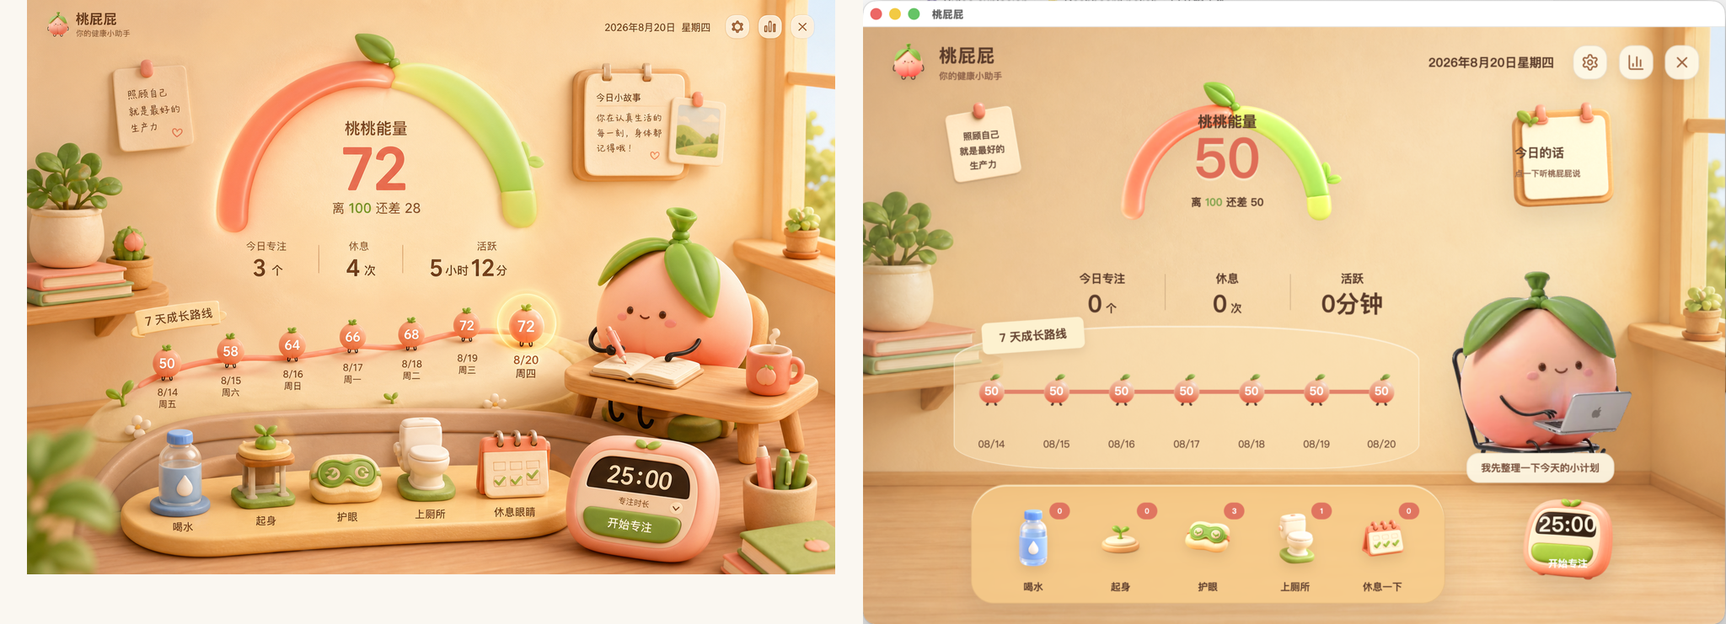
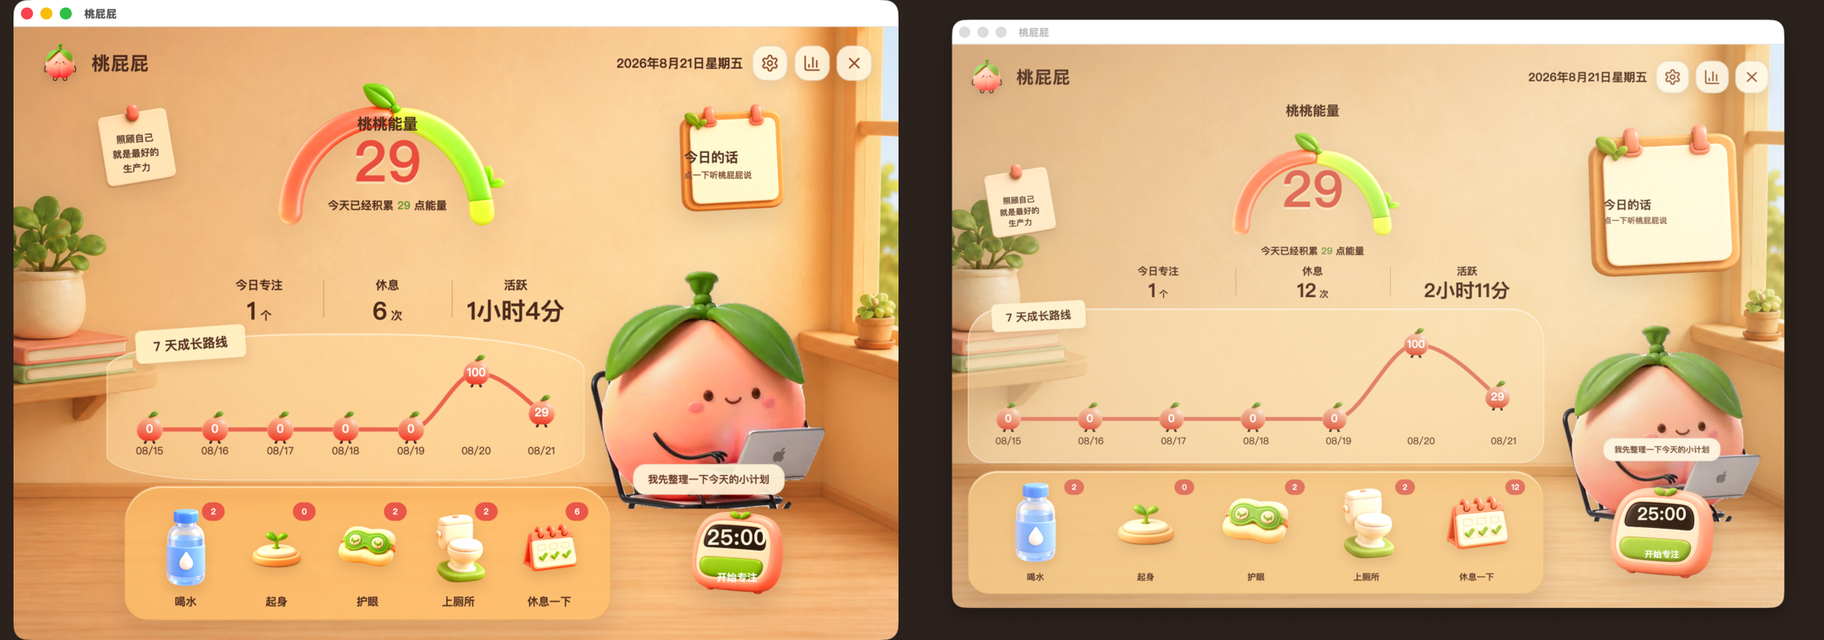
fix: make dashboard responsive at every window size

diff --git a/src/renderer/src/styles.css b/src/renderer/src/styles.css
@@ -37,26 +37,26 @@ button { cursor: pointer; }
 
 /* 桃桃小屋 dashboard */
 .cottage-loading { height: 100vh; display: grid; place-items: center; background: #ffe3bc; color: #74432b; }
-.cottage { position: relative; width: 100vw; height: 100vh; min-width: 960px; min-height: 650px; overflow: hidden; background-position: center; background-size: cover; background-color: #ffd59d; isolation: isolate; }
+.cottage { position: relative; width: 100vw; height: 100vh; min-width: 0; min-height: 0; display: grid; grid-template-areas: "header header header" "note energy story" "chart chart friend" "dock dock timer"; grid-template-columns: minmax(120px, .25fr) minmax(420px, 1fr) minmax(215px, .5fr); grid-template-rows: auto minmax(185px, 1.15fr) minmax(145px, .9fr) minmax(125px, .72fr); gap: clamp(10px, 1.35vw, 22px); padding: clamp(18px, 2.3vw, 38px); overflow: hidden; background-position: center; background-size: cover; background-color: #ffd59d; isolation: isolate; }
 .cottage::after { content: ""; pointer-events: none; position: absolute; z-index: 1; inset: 0; background: rgba(255, 241, 214, .09); }
-.cottage-topbar { position: absolute; z-index: 10; top: 2.6%; left: 3%; right: 3%; display: flex; justify-content: space-between; align-items: center; }
+.cottage-topbar { grid-area: header; position: relative; z-index: 10; min-width: 0; display: flex; justify-content: space-between; align-items: center; }
 .cottage-brand { display: flex; align-items: center; gap: 13px; }.cottage-brand img { width: clamp(48px, 4vw, 64px); height: clamp(48px, 4vw, 64px); object-fit: contain; filter: brightness(1.08) saturate(1.18) drop-shadow(0 5px 6px rgba(100,55,27,.16)); }.cottage-brand div { display: grid; gap: 2px; }.cottage-brand strong { font-size: clamp(22px, 1.75vw, 29px); letter-spacing: .04em; }.cottage-brand span { color: #986146; font-size: clamp(11px, .85vw, 14px); font-weight: 600; }
 .date-actions { display: flex; align-items: center; gap: 14px; }.date-actions time { margin-right: 9px; font-weight: 750; font-size: clamp(15px, 1.2vw, 20px); white-space: nowrap; }.date-actions button, .settings-panel header button { width: clamp(42px, 3.2vw, 52px); height: clamp(42px, 3.2vw, 52px); display: grid; place-items: center; border: 1px solid rgba(135, 80, 44, .16); border-radius: 16px; color: #a45e36; background: rgba(255, 249, 232, .9); box-shadow: 0 7px 16px rgba(112, 62, 28, .1); transition: transform .18s ease, background .18s ease; }.date-actions button:hover { transform: translateY(-2px); background: #fff8e7; }.date-actions svg, .settings-panel header svg { width: 22px; }
 
-.energy-hero { position: absolute; z-index: 3; top: 6.5%; left: 20.5%; width: 43.5%; height: 42%; text-align: center; }.energy-hero > img { position: absolute; top: 0; left: 50%; width: 84%; height: 73%; object-fit: contain; transform: translateX(-50%); filter: brightness(1.1) saturate(1.24) drop-shadow(0 15px 19px rgba(124, 68, 31, .12)); }.energy-copy { position: absolute; top: 18%; left: 50%; width: 57%; transform: translateX(-50%); display: grid; place-items: center; }.energy-copy > span { font-weight: 800; font-size: clamp(18px, 1.55vw, 26px); }.energy-copy > strong { color: #f0644f; font-size: clamp(64px, 6.4vw, 103px); line-height: .96; font-weight: 850; text-shadow: 0 3px 0 rgba(255, 245, 220, .5); }.energy-copy small { max-width: 100%; margin-top: 12px; font-size: clamp(13px, 1.08vw, 18px); font-weight: 650; line-height: 1.25; white-space: nowrap; }.energy-copy b { color: #77a53d; }
-.hero-metrics { position: absolute; left: 0; right: 0; bottom: 0; display: grid; grid-template-columns: repeat(3, 1fr); }.hero-metrics div { position: relative; display: grid; gap: 6px; }.hero-metrics div + div::before { content: ""; position: absolute; left: 0; top: 8%; height: 78%; width: 1px; background: rgba(127, 77, 47, .28); }.hero-metrics span { font-size: clamp(14px, 1.2vw, 20px); font-weight: 650; }.hero-metrics strong { font-size: clamp(29px, 2.6vw, 43px); line-height: 1.05; }.hero-metrics small { font-size: .46em; font-weight: 600; }
+.energy-hero { grid-area: energy; position: relative; z-index: 3; min-width: 0; min-height: 0; display: grid; grid-template-rows: auto minmax(0, 1fr) auto; row-gap: clamp(2px, .45vh, 6px); text-align: center; }.energy-hero > img { grid-row: 2; grid-column: 1; z-index: 0; width: 100%; height: 100%; object-fit: contain; filter: brightness(1.1) saturate(1.24) drop-shadow(0 15px 19px rgba(124, 68, 31, .12)); }.energy-copy { display: contents; }.energy-copy > span { grid-row: 1; grid-column: 1; z-index: 2; align-self: end; justify-self: center; font-weight: 800; font-size: clamp(17px, 1.45vw, 23px); line-height: 1.15; white-space: nowrap; }.energy-copy > strong { grid-row: 2; grid-column: 1; z-index: 2; align-self: center; justify-self: center; color: #f0644f; font-size: clamp(54px, 6.2vw, 92px); line-height: .9; font-weight: 850; text-shadow: 0 3px 0 rgba(255, 245, 220, .5); }.energy-copy small { grid-row: 2; grid-column: 1; z-index: 2; align-self: end; justify-self: center; max-width: 100%; font-size: clamp(12px, .95vw, 16px); font-weight: 650; line-height: 1.25; white-space: nowrap; }.energy-copy b { color: #77a53d; }
+.hero-metrics { grid-row: 3; grid-column: 1; min-width: 0; display: grid; grid-template-columns: repeat(3, minmax(0, 1fr)); padding-top: clamp(5px, .8vh, 10px); }.hero-metrics div { position: relative; min-width: 0; display: grid; gap: 3px; }.hero-metrics div + div::before { content: ""; position: absolute; left: 0; top: 8%; height: 78%; width: 1px; background: rgba(127, 77, 47, .28); }.hero-metrics span { font-size: clamp(13px, 1.05vw, 18px); font-weight: 650; white-space: nowrap; }.hero-metrics strong { min-width: 0; font-size: clamp(24px, 2.35vw, 38px); line-height: 1.05; white-space: nowrap; }.hero-metrics small { font-size: .46em; font-weight: 600; }
 
-.motivation-note { position: absolute; z-index: 3; top: 8.5%; left: 7.5%; width: 12.5%; height: 22%; transform: rotate(-4deg); }.motivation-note img { width: 100%; height: 100%; object-fit: contain; filter: brightness(1.05) saturate(1.08) drop-shadow(0 10px 14px rgba(95,52,29,.13)); }.motivation-note p { position: absolute; inset: 29% 20% 19%; margin: 0; display: grid; place-items: center; color: #6d4937; font-size: clamp(11px, .92vw, 15px); font-weight: 650; line-height: 1.58; text-align: center; overflow: hidden; }
+.motivation-note { grid-area: note; position: relative; z-index: 3; align-self: stretch; justify-self: center; width: min(100%, 180px); min-width: 0; transform: rotate(-4deg); }.motivation-note img { width: 100%; height: 100%; object-fit: contain; filter: brightness(1.05) saturate(1.08) drop-shadow(0 10px 14px rgba(95,52,29,.13)); }.motivation-note p { position: absolute; inset: 27% 18% 17%; margin: 0; display: grid; place-items: center; color: #6d4937; font-size: clamp(10px, .88vw, 14px); font-weight: 650; line-height: 1.48; text-align: center; overflow: hidden; }
 
-.story-trigger { position: absolute; z-index: 4; top: 11%; right: 10%; width: 18%; height: 21%; padding: 0; border: 0; color: #68422f; background: transparent; transition: transform .2s ease, filter .2s ease; }.story-trigger:hover { transform: translateY(-4px) rotate(1deg); filter: brightness(1.04); }.story-trigger > img { width: 100%; height: 100%; object-fit: contain; filter: brightness(1.06) saturate(1.1) drop-shadow(0 12px 18px rgba(105, 58, 26, .15)); }.story-trigger > span { position: absolute; inset: 30% 18% 21% 24%; display: grid; align-content: center; gap: 5px; text-align: left; overflow: hidden; }.story-trigger strong { overflow: hidden; font-size: clamp(16px, 1.25vw, 21px); line-height: 1.2; text-overflow: ellipsis; white-space: nowrap; }.story-trigger small { display: -webkit-box; overflow: hidden; color: #95644c; font-size: clamp(10px, .78vw, 13px); font-weight: 650; line-height: 1.35; -webkit-box-orient: vertical; -webkit-line-clamp: 2; }
+.story-trigger { grid-area: story; position: relative; z-index: 4; align-self: stretch; justify-self: center; width: min(100%, 245px); min-width: 0; padding: 0; border: 0; color: #68422f; background: transparent; transition: transform .2s ease, filter .2s ease; }.story-trigger:hover { transform: translateY(-4px) rotate(1deg); filter: brightness(1.04); }.story-trigger > img { width: 100%; height: 100%; object-fit: contain; filter: brightness(1.06) saturate(1.1) drop-shadow(0 12px 18px rgba(105, 58, 26, .15)); }.story-trigger > span { position: absolute; inset: 28% 16% 19% 21%; display: grid; align-content: center; gap: 5px; text-align: left; overflow: hidden; }.story-trigger strong { overflow: hidden; font-size: clamp(15px, 1.18vw, 20px); line-height: 1.2; text-overflow: ellipsis; white-space: nowrap; }.story-trigger small { display: -webkit-box; overflow: hidden; color: #95644c; font-size: clamp(10px, .75vw, 13px); font-weight: 650; line-height: 1.35; -webkit-box-orient: vertical; -webkit-line-clamp: 2; }
 
-.growth-card { position: absolute; z-index: 3; left: 10.5%; top: 50%; width: 54%; height: 24%; padding: 12px 15px; border: 1px solid rgba(255, 248, 226, .62); border-radius: 44% 44% 24% 24% / 24% 24% 17% 17%; background: rgba(255, 226, 177, .5); box-shadow: inset 0 1px rgba(255,255,255,.55); }.growth-title { position: absolute; z-index: 2; top: -8px; left: 6%; padding: 9px 21px; transform: rotate(-4deg); border-radius: 7px; color: #683e2a; background: #fff0cb; box-shadow: 0 5px 12px rgba(107, 61, 30, .12); font-size: clamp(15px, 1.1vw, 19px); font-weight: 800; }
+.growth-card { grid-area: chart; position: relative; z-index: 3; min-width: 0; min-height: 0; padding: 12px 15px 4px; border: 1px solid rgba(255, 248, 226, .62); border-radius: 42px 42px 30px 30px; background: rgba(255, 226, 177, .5); box-shadow: inset 0 1px rgba(255,255,255,.55); }.growth-title { position: absolute; z-index: 2; top: -9px; left: clamp(16px, 4%, 42px); padding: 8px 18px; transform: rotate(-3deg); border-radius: 7px; color: #683e2a; background: #fff0cb; box-shadow: 0 5px 12px rgba(107, 61, 30, .12); font-size: clamp(14px, 1vw, 18px); font-weight: 800; white-space: nowrap; }
 
-.working-friend { position: absolute; z-index: 4; right: 7.2%; top: 36.5%; width: 28.5%; height: 39%; display: grid; place-items: center; }.dashboard-friend-video { width: 100%; height: 100%; object-fit: contain; cursor: pointer; filter: brightness(1.26) saturate(1.42) contrast(.94) drop-shadow(0 20px 18px rgba(90, 47, 25, .16)); }.working-friend p { position: absolute; bottom: -2%; max-width: 85%; margin: 0; padding: 9px 17px; border: 1px solid rgba(139, 83, 48, .1); border-radius: 15px; color: #805039; background: rgba(255,247,226,.93); font-size: clamp(12px, .9vw, 15px); font-weight: 650; box-shadow: 0 7px 16px rgba(87,48,25,.1); white-space: nowrap; }
+.working-friend { grid-area: friend; position: relative; z-index: 4; min-width: 0; min-height: 0; display: grid; place-items: center; }.dashboard-friend-video { width: 100%; height: 100%; object-fit: contain; cursor: pointer; filter: brightness(1.26) saturate(1.42) contrast(.94) drop-shadow(0 14px 15px rgba(90, 47, 25, .16)); }.working-friend p { position: absolute; left: 50%; bottom: 2px; max-width: 92%; margin: 0; padding: 7px 13px; transform: translateX(-50%); border: 1px solid rgba(139, 83, 48, .1); border-radius: 13px; color: #805039; background: rgba(255,247,226,.93); font-size: clamp(10px, .78vw, 13px); font-weight: 650; box-shadow: 0 7px 16px rgba(87,48,25,.1); overflow: hidden; text-overflow: ellipsis; white-space: nowrap; }
 
-.habit-dock { position: absolute; z-index: 6; left: 12.5%; bottom: 3.2%; width: 55%; height: 22%; display: grid; grid-template-columns: repeat(5, 1fr); align-items: end; padding: 12px 18px 11px; border: 1px solid rgba(137, 81, 42, .13); border-radius: 44px 44px 28px 28px; background: rgba(255, 202, 126, .78); box-shadow: 0 19px 35px rgba(102, 57, 28, .15), inset 0 2px rgba(255,245,218,.65); backdrop-filter: blur(3px); }.habit-dock button { position: relative; height: 100%; display: grid; grid-template-rows: 1fr auto; place-items: center; border: 0; color: #633b28; background: transparent; transition: transform .18s ease; }.habit-dock button:hover { transform: translateY(-6px) rotate(-1deg); }.habit-dock img { width: 100%; height: 85%; object-fit: contain; filter: brightness(1.12) saturate(1.25) drop-shadow(0 7px 7px rgba(95,52,28,.13)); transform: translateY(3px) scale(1.08); }.habit-dock span { font-size: clamp(13px, 1.03vw, 17px); font-weight: 800; }.habit-dock small { position: absolute; right: 7%; top: 5%; min-width: 27px; padding: 4px 6px; border-radius: 11px; color: white; background: #f06d59; font-size: clamp(10px, .7vw, 12px); font-weight: 800; }.dock-hint { position: absolute; z-index: 14; left: 50%; bottom: 26%; margin: 0; padding: 9px 14px; transform: translateX(-50%); border-radius: 13px; color: #7a4c37; background: rgba(255,248,231,.96); box-shadow: 0 8px 20px rgba(93,52,28,.15); font-size: clamp(12px, .9vw, 15px); font-weight: 700; white-space: nowrap; }
+.habit-dock { grid-area: dock; position: relative; z-index: 6; min-width: 0; min-height: 0; display: grid; grid-template-columns: repeat(5, minmax(0, 1fr)); align-items: stretch; padding: clamp(8px, 1.1vh, 13px) clamp(10px, 1.4vw, 20px); border: 1px solid rgba(137, 81, 42, .13); border-radius: 38px 38px 27px 27px; background: rgba(255, 202, 126, .78); box-shadow: 0 16px 30px rgba(102, 57, 28, .15), inset 0 2px rgba(255,245,218,.65); backdrop-filter: blur(3px); overflow: hidden; }.habit-dock button { position: relative; min-width: 0; min-height: 0; height: 100%; display: grid; grid-template-rows: minmax(0, 1fr) 24px; place-items: center; overflow: hidden; border: 0; color: #633b28; background: transparent; transition: transform .18s ease; }.habit-dock button:hover { transform: translateY(-4px) rotate(-1deg); }.habit-dock img { width: 100%; height: 100%; min-height: 0; object-fit: contain; filter: brightness(1.12) saturate(1.25) drop-shadow(0 7px 7px rgba(95,52,28,.13)); }.habit-dock span { align-self: center; font-size: clamp(11px, .92vw, 16px); line-height: 22px; font-weight: 800; white-space: nowrap; }.habit-dock small { position: absolute; right: 6%; top: 2%; min-width: 25px; padding: 3px 6px; border-radius: 11px; color: white; background: #f06d59; font-size: clamp(10px, .68vw, 12px); font-weight: 800; }.dock-hint { position: absolute; z-index: 14; left: 50%; bottom: 22%; margin: 0; padding: 9px 14px; transform: translateX(-50%); border-radius: 13px; color: #7a4c37; background: rgba(255,248,231,.96); box-shadow: 0 8px 20px rgba(93,52,28,.15); font-size: clamp(12px, .9vw, 15px); font-weight: 700; white-space: nowrap; }
 
-.timer-device { position: absolute; z-index: 7; right: 9.5%; bottom: 2.8%; width: 17.5%; height: 23%; padding: 0; border: 0; background: transparent; transition: transform .18s ease; }.timer-device:hover { transform: translateY(-5px) scale(1.025); }.timer-device img { width: 100%; height: 100%; object-fit: contain; filter: brightness(1.09) saturate(1.2) drop-shadow(0 14px 16px rgba(96,50,28,.18)); }.timer-device strong { position: absolute; left: 23%; right: 23%; top: 29%; color: #fff4dd; font-size: clamp(22px, 2.4vw, 40px); letter-spacing: .03em; }.timer-device span { position: absolute; left: 23%; right: 23%; top: 63%; color: white; font-size: clamp(12px, 1.05vw, 17px); font-weight: 850; }
+.timer-device { grid-area: timer; position: relative; z-index: 7; align-self: stretch; justify-self: center; width: min(100%, 220px); min-width: 0; min-height: 0; padding: 0; border: 0; background: transparent; transition: transform .18s ease; }.timer-device:hover { transform: translateY(-4px) scale(1.02); }.timer-device img { width: 100%; height: 100%; object-fit: contain; filter: brightness(1.09) saturate(1.2) drop-shadow(0 11px 14px rgba(96,50,28,.18)); }.timer-device strong { position: absolute; left: 22%; right: 22%; top: 28%; color: #fff4dd; font-size: clamp(20px, 2.15vw, 36px); line-height: 1; letter-spacing: .02em; white-space: nowrap; }.timer-device span { position: absolute; left: 22%; right: 22%; top: 63%; color: white; font-size: clamp(11px, .95vw, 16px); font-weight: 850; white-space: nowrap; }
 
 .story-scrim { position: absolute; z-index: 28; inset: 0; display: grid; place-items: center; padding: 28px; background: rgba(93, 53, 31, .22); backdrop-filter: blur(7px); animation: story-scrim-in .18s ease-out; }.story-dialog { position: relative; width: min(600px, 76vw); min-height: 360px; padding: 36px 46px 38px; border: 1px solid rgba(132,78,46,.14); border-radius: 34px; color: #663d29; background: #fff3d9; box-shadow: 0 26px 76px rgba(82,46,27,.3); overflow: hidden; animation: story-dialog-in .24s cubic-bezier(.2,.9,.25,1.08); }.story-dialog > img { position: absolute; right: -9%; bottom: -22%; width: 42%; height: 60%; object-fit: contain; opacity: .28; filter: saturate(1.16); transform: rotate(8deg); }.story-dialog > div { position: relative; z-index: 2; max-width: 83%; }.story-dialog > div > span { color: #e86a54; font-size: 14px; font-weight: 800; letter-spacing: .12em; }.story-dialog h2 { margin: 12px 0 17px; font-size: clamp(25px, 2.3vw, 36px); line-height: 1.25; }.story-dialog p { margin: 0; color: #7b5643; font-size: clamp(15px, 1.2vw, 18px); font-weight: 600; line-height: 1.85; }.story-dialog > div > button { margin-top: 26px; padding: 11px 20px; border: 0; border-radius: 14px; color: white; background: #ed735d; font-size: 15px; font-weight: 800; box-shadow: 0 8px 18px rgba(221,91,66,.2); }.story-close { position: absolute; z-index: 4; top: 18px; right: 18px; width: 40px; height: 40px; display: grid; place-items: center; border: 0; border-radius: 13px; color: #9b6548; background: #f7dfbb; }.story-close svg { width: 19px; }.story-dialog button:hover { filter: brightness(1.04); transform: translateY(-1px); }
 @keyframes story-scrim-in { from { opacity: 0; } }
@@ -64,5 +64,5 @@ button { cursor: pointer; }
 
 .settings-scrim { position: absolute; z-index: 30; inset: 0; display: grid; place-items: center; background: rgba(91, 54, 34, .18); backdrop-filter: blur(8px); }.settings-panel { width: min(560px, 78vw); max-height: 82vh; overflow: auto; padding: 26px; border: 1px solid rgba(132,78,46,.13); border-radius: 30px; background: #fff3d9; box-shadow: 0 25px 70px rgba(82,46,27,.28); }.settings-panel header { display: flex; justify-content: space-between; align-items: center; }.settings-panel header div { display: grid; gap: 3px; }.settings-panel header span { color: #d96d56; font-size: 12px; }.settings-panel header strong { font-size: 25px; }.setting-pair { display: grid; grid-template-columns: 1fr 1fr; gap: 12px; margin: 24px 0; }.setting-pair label, .setting-reminder { display: grid; align-items: center; gap: 8px; padding: 13px; border-radius: 17px; background: #f9dfbb; }.setting-pair label { grid-template-columns: 1fr 65px auto; font-size: 12px; }.settings-panel input[type="number"] { width: 100%; border: 1px solid rgba(137,80,45,.14); border-radius: 9px; padding: 7px; color: #68422f; background: #fff9ec; }.settings-panel h3 { font-size: 15px; }.setting-reminder { grid-template-columns: 20px 1fr 65px auto; margin-top: 8px; font-size: 12px; }.setting-reminder input[type="checkbox"] { accent-color: #84a746; }.save-settings { width: 100%; margin-top: 20px; padding: 12px; border: 0; border-radius: 14px; color: white; background: #ef765e; font-weight: 750; box-shadow: 0 8px 17px rgba(220,91,62,.2); }
 
-@media (max-aspect-ratio: 4/3) { .energy-hero { left: 14%; width: 50%; }.story-trigger { right: 3%; width: 23%; }.working-friend { right: 1%; width: 36%; }.growth-card { left: 5%; width: 60%; }.habit-dock { left: 4%; width: 64%; }.timer-device { right: 3%; width: 22%; } }
-@media (max-width: 1100px) { .cottage-brand span { display: none; }.date-actions { gap: 8px; }.date-actions time { margin-right: 3px; }.story-trigger > span { inset: 28% 16% 18% 21%; }.story-trigger small { -webkit-line-clamp: 1; }.motivation-note p { font-size: 11px; }.dock-hint { bottom: 27%; } }
+@media (max-width: 1100px) { .cottage { grid-template-columns: minmax(110px, .22fr) minmax(410px, 1fr) minmax(200px, .46fr); padding: 18px 20px; gap: 10px 14px; }.cottage-brand span { display: none; }.date-actions { gap: 8px; }.date-actions time { margin-right: 3px; }.story-trigger > span { inset: 28% 14% 18% 20%; }.story-trigger small { -webkit-line-clamp: 1; }.motivation-note p { font-size: 10px; }.dock-hint { bottom: 23%; } }
+@media (max-height: 700px) { .cottage { grid-template-rows: auto minmax(150px, 1.02fr) minmax(125px, .84fr) minmax(105px, .66fr); padding-top: 12px; padding-bottom: 12px; }.cottage-brand img { width: 44px; height: 44px; }.energy-copy > strong { font-size: clamp(48px, 5.4vw, 72px); }.hero-metrics strong { font-size: clamp(21px, 2vw, 30px); }.growth-title { padding: 6px 15px; }.habit-dock { padding-top: 5px; padding-bottom: 5px; } }

diff --git a/src/core/dashboard-layout.test.ts b/src/core/dashboard-layout.test.ts
@@ -1,0 +1,34 @@
+import { readFileSync } from 'node:fs'
+import { describe, expect, it } from 'vitest'
+
+const styles = readFileSync(new URL('../renderer/src/styles.css', import.meta.url), 'utf8')
+
+function rule(selector: string): string {
+  const escaped = selector.replace(/[.*+?^${}()|[\]\\]/g, '\\$&')
+  return styles.match(new RegExp(`${escaped}\\s*\\{([^}]+)\\}`))?.[1] ?? ''
+}
+
+describe('dashboard responsive layout contract', () => {
+  it('uses one parent grid instead of independently positioned major regions', () => {
+    expect(rule('.cottage')).toContain('display: grid')
+    expect(rule('.cottage')).toContain('min-height: 0')
+    expect(rule('.cottage')).not.toContain('min-height: 650px')
+    for (const selector of ['.energy-hero', '.motivation-note', '.story-trigger', '.growth-card', '.working-friend', '.habit-dock', '.timer-device']) {
+      expect(rule(selector), selector).toContain('grid-area:')
+      expect(rule(selector), selector).not.toContain('position: absolute')
+    }
+  })
+
+  it('keeps the energy title, score, summary and metrics in explicit grid rows', () => {
+    expect(rule('.energy-hero')).toContain('grid-template-rows:')
+    expect(rule('.energy-copy')).toContain('display: contents')
+    expect(rule('.energy-copy > span')).toContain('grid-row: 1')
+    expect(rule('.energy-copy > strong')).toContain('grid-row: 2')
+    expect(rule('.hero-metrics')).toContain('grid-template-columns: repeat(3')
+  })
+
+  it('reserves a fixed label row inside every habit button', () => {
+    expect(rule('.habit-dock')).toContain('overflow: hidden')
+    expect(rule('.habit-dock button')).toContain('grid-template-rows: minmax(0, 1fr) 24px')
+  })
+})

diff --git a/design-qa.md b/design-qa.md
@@ -4,10 +4,11 @@ final result: passed
 
 ## Evidence
 
-- Visual source: `/Users/yangzhou/.codex/generated_images/01a01d5f-e8c8-7dd0-ba6a-e23840644704/exec-fa04e291-294c-46bf-bc47-a82186114145.png`
+- Visual source for this responsive repair: `/var/folders/4f/fh1kxjb14gldyxx4wqlg9pcc0000gn/T/codex-clipboard-a522c30c-31d2-44be-aef2-2df86e53d64a.png`
 - Implementation screenshot: `docs/qa/dashboard-final.png`
 - Side-by-side comparison: `docs/qa/dashboard-comparison.png`
-- Tested dashboard viewport: `1050 × 760` logical pixels on macOS high-DPI display
+- Responsive matrix: `docs/qa/dashboard-responsive-matrix.png`
+- Tested dashboard viewports: `960 × 650`, `1050 × 760`, and `1400 × 800` logical pixels on macOS high-DPI display
 - Explosion contact sheet: `docs/qa/explosion-contact-sheet.png`
 
 ## Comparison history
@@ -15,6 +16,8 @@ final result: passed
 1. Initial implementation was too dim, used small type, allowed story text to overflow its note, and gave the working character too much continuous motion.
 2. Revised implementation raised peach/coral saturation and brightness, enlarged the type hierarchy, restored safe margins, separated energy/summary/growth/action zones, and changed the story note into a fixed entry that opens a stable dialog.
 3. Final motion behavior plays the dashboard character once on entry, freezes on a stable frame, and replays once on hover. Video and still containers share a fixed visual slot.
+4. Responsive repair replaced independently positioned major regions with one parent CSS grid. The energy title, score, summary, metrics, chart, action dock, character, and timer now occupy explicit rows or grid areas.
+5. Final repair removed the fixed CSS minimum viewport that exceeded the framed Electron content height, made the chart parent resize with the window, and reserved a clipped 24px label row inside every habit button.
 
 ## Final checks
 
@@ -24,5 +27,8 @@ final result: passed
 - All visible controls in the main journey have an action.
 - Dynamic copy is constrained to a fixed dialog rather than laid directly over a variable-size generated note.
 - Peach, energy arc, timer, and behavior objects remain visually dominant over the room background.
-- No dashboard text visibly crosses its container boundary in the recorded viewport.
+- No dashboard text visibly crosses its container boundary at any of the three recorded viewport sizes.
+- The energy title no longer intersects the leaf/arc asset; the score and summary occupy separate alignment positions.
+- The seven-day line and peach nodes reflow with the chart container at every recorded width.
+- Habit names remain inside the dock even when the viewport is wide or at its minimum height.
 - Reference and implementation were inspected together in the side-by-side comparison image.

diff --git a/docs/sdd/design.md b/docs/sdd/design.md
@@ -135,6 +135,15 @@
 6. 右侧角色只在首次进入或指针悬停时播放一次动作；其余时间保持安静。
 7. “今日的话”只展示一个标题/短摘要入口，点击弹出固定尺寸、可滚动的内容层；文案长度不再影响主布局。
 
+### 7.4 响应式约束
+
+- 页面主体使用一个三列四行的 CSS Grid；品牌栏、能量区、便签、趋势图、角色、行为坞和计时器都有固定 `grid-area`，禁止各自用百分比绝对定位争抢空间。
+- 能量标题、分数、当日说明和三项指标分别占独立网格行；标题永远位于能量弧上方，不与顶部叶片相交。
+- 7 天趋势图的父容器随网格单元伸缩，图表宽高均使用响应式容器重新计算，窗口改变后折线和节点同步重排。
+- Electron 窗口负责最小尺寸保护；页面内部不再重复设置大于内容区的固定最小高度，避免标题栏占高后底部被裁掉。
+- 每个健康行为按钮预留 24px 的固定名称行，图片只能在剩余区域内缩放，文字和计数不得溢出行为坞。
+- 视觉验收覆盖 `960 × 650`、`1050 × 760`、`1400 × 800` 三档逻辑窗口尺寸。
+
 ## 8. 图像资产与生成提示词
 
 参考图：`/Users/yangzhou/.codex/generated_images/01a01d5f-e8c8-7dd0-ba6a-e23840644704/exec-fa04e291-294c-46bf-bc47-a82186114145.png`

diff --git a/docs/sdd/tasks.md b/docs/sdd/tasks.md
@@ -67,6 +67,8 @@
 - [x] 默认窗口和高 DPI 下完成实机截图对比；保留 `960 × 650` 最小尺寸保护。
 - [x] 完成 Product Design 视觉 QA，记录 P0/P1/P2 并达到 `design-qa.md: passed`。
 - [x] 统计页改为从 0 分的累计能量；趋势纵轴随数据增长，底部图标放大、文字限制在素材安全区内。
+- [x] 将统计页重构为统一响应式网格，修复能量数字/标题相压、折线不随宽度变化、宽屏和最小窗口底部标签越界。
+- [x] 在 `960 × 650`、`1050 × 760`、`1400 × 800` 三档 macOS 实机窗口完成截图对比。
 
 ## F. 文档与新增视频复用
 
